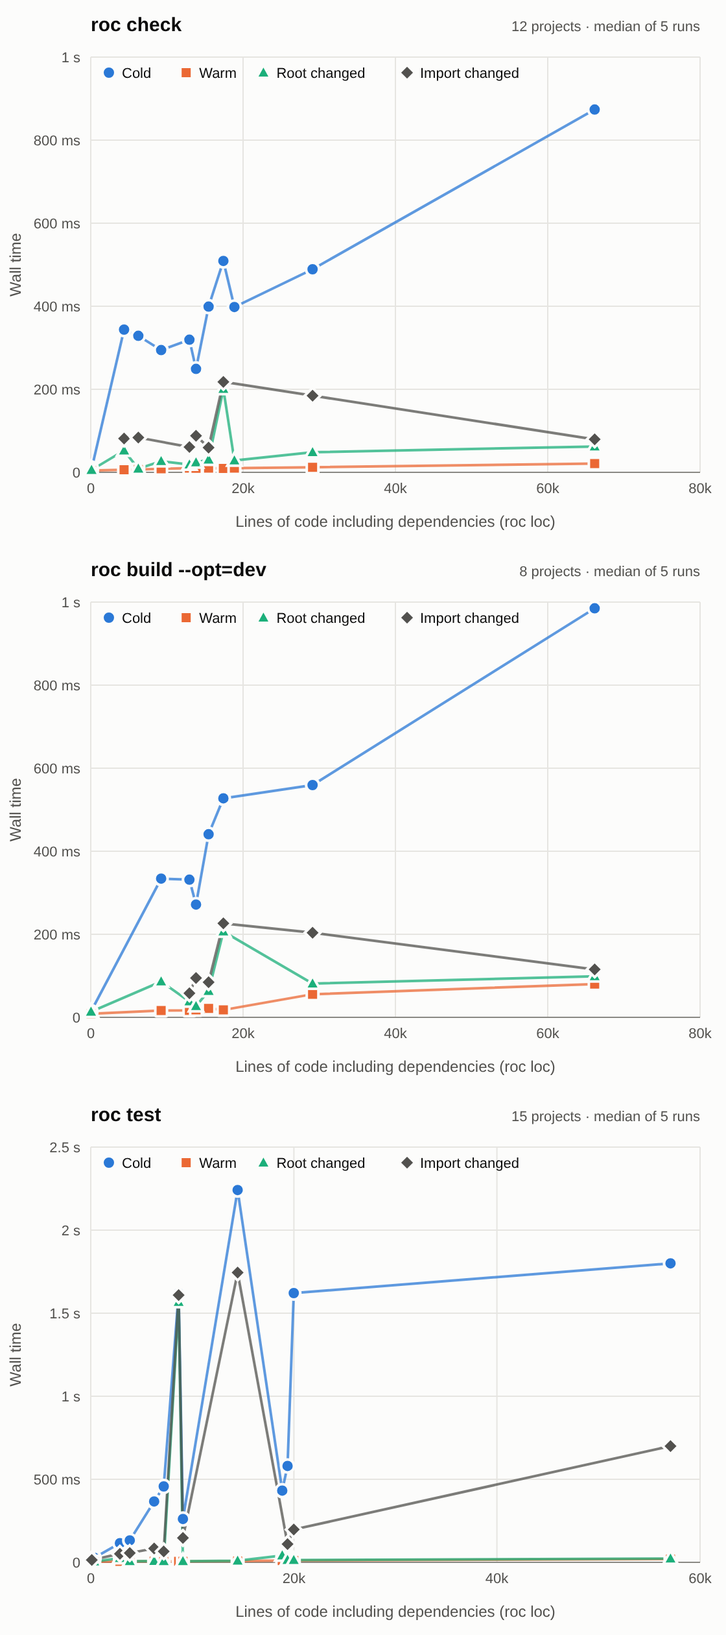
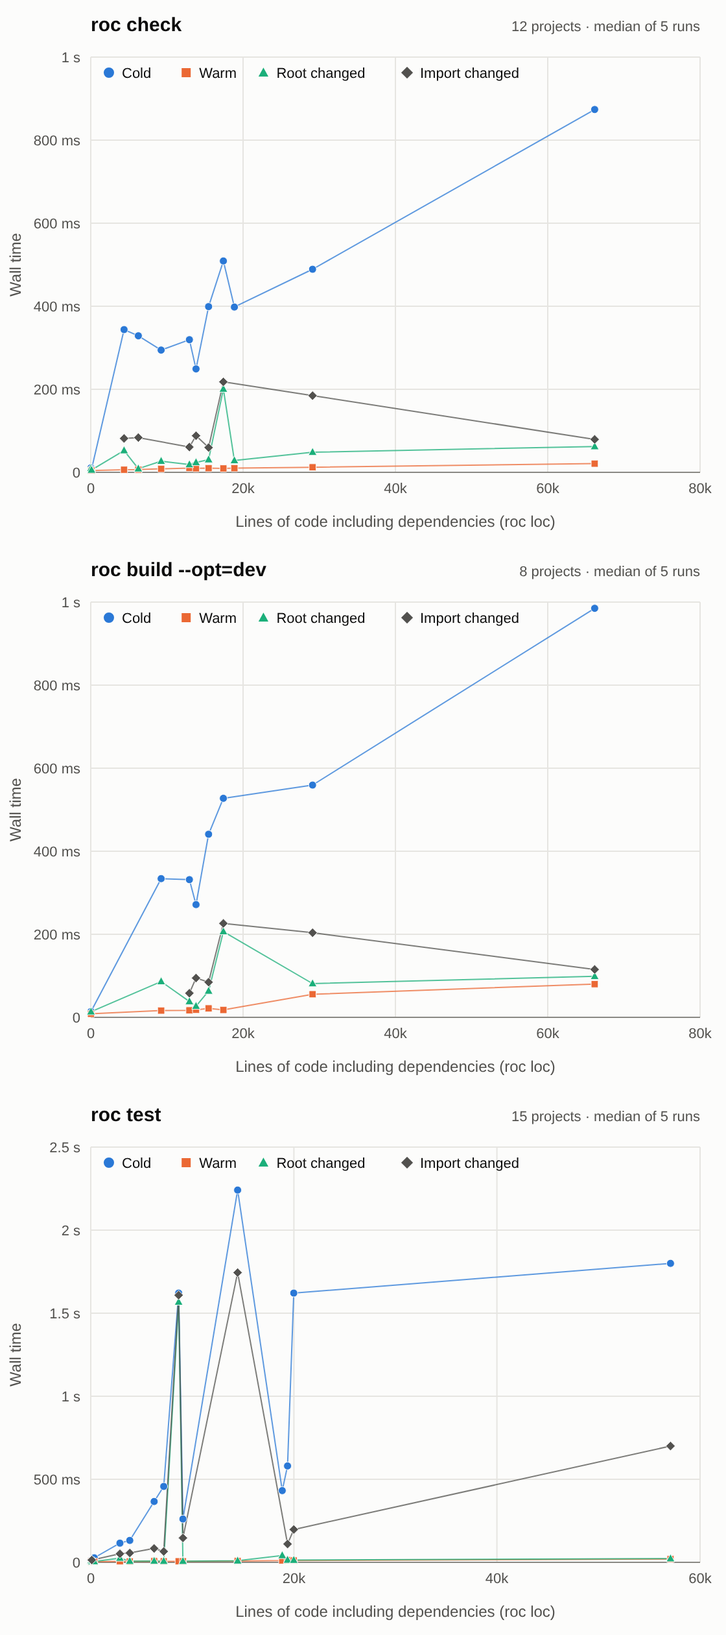
Draw the linear-scale charts with smaller markers and thinner lines

diff --git a/perf-measurements/charts-linear.html b/perf-measurements/charts-linear.html
@@ -28,57 +28,57 @@
 <line x1="70" x2="540" y1="364" y2="364" stroke="#8a8984" stroke-width="1"/>
 <text x="305.0" y="406" font-size="12" fill="#52514e" text-anchor="middle">Lines of code including dependencies (roc loc)</text>
 <text transform="translate(16 204.0) rotate(-90)" font-size="12" fill="#52514e" text-anchor="middle">Wall time</text>
-<polyline points="70.2,360.5 70.6,361.6 95.7,254.0 106.7,258.8 124.3,269.8 146.1,261.8 151.2,284.3 160.9,236.3 172.3,201.1 180.8,236.6 241.1,207.5 458.7,84.4" fill="none" stroke="#2a78d6" stroke-width="2" stroke-linejoin="round" opacity="0.75"/>
-<polyline points="70.2,362.6 70.6,362.6 95.7,362.0 106.7,361.9 124.3,361.3 146.1,360.7 151.2,360.9 160.9,360.8 172.3,361.0 180.8,360.8 241.1,360.1 458.7,357.3" fill="none" stroke="#eb6834" stroke-width="2" stroke-linejoin="round" opacity="0.75"/>
-<polyline points="70.2,360.9 70.6,362.2 95.7,347.2 106.7,361.2 124.3,355.4 146.1,358.0 151.2,356.4 160.9,354.2 172.3,299.8 180.8,354.9 241.1,348.5 458.7,344.1" fill="none" stroke="#1baf7a" stroke-width="2" stroke-linejoin="round" opacity="0.75"/>
-<polyline points="95.7,337.9 106.7,337.2 146.1,344.5 151.2,335.8 160.9,344.9 172.3,294.3 241.1,304.9 458.7,338.6" fill="none" stroke="#52514e" stroke-width="2" stroke-linejoin="round" opacity="0.75"/>
-<circle cx="70.2" cy="360.5" r="5" fill="#2a78d6" stroke="#fcfcfb" stroke-width="2"/>
-<circle cx="70.6" cy="361.6" r="5" fill="#2a78d6" stroke="#fcfcfb" stroke-width="2"/>
-<circle cx="95.7" cy="254.0" r="5" fill="#2a78d6" stroke="#fcfcfb" stroke-width="2"/>
-<circle cx="106.7" cy="258.8" r="5" fill="#2a78d6" stroke="#fcfcfb" stroke-width="2"/>
-<circle cx="124.3" cy="269.8" r="5" fill="#2a78d6" stroke="#fcfcfb" stroke-width="2"/>
-<circle cx="146.1" cy="261.8" r="5" fill="#2a78d6" stroke="#fcfcfb" stroke-width="2"/>
-<circle cx="151.2" cy="284.3" r="5" fill="#2a78d6" stroke="#fcfcfb" stroke-width="2"/>
-<circle cx="160.9" cy="236.3" r="5" fill="#2a78d6" stroke="#fcfcfb" stroke-width="2"/>
-<circle cx="172.3" cy="201.1" r="5" fill="#2a78d6" stroke="#fcfcfb" stroke-width="2"/>
-<circle cx="180.8" cy="236.6" r="5" fill="#2a78d6" stroke="#fcfcfb" stroke-width="2"/>
-<circle cx="241.1" cy="207.5" r="5" fill="#2a78d6" stroke="#fcfcfb" stroke-width="2"/>
-<circle cx="458.7" cy="84.4" r="5" fill="#2a78d6" stroke="#fcfcfb" stroke-width="2"/>
-<rect x="65.7" y="358.1" width="9" height="9" rx="1" fill="#eb6834" stroke="#fcfcfb" stroke-width="2"/>
-<rect x="66.1" y="358.1" width="9" height="9" rx="1" fill="#eb6834" stroke="#fcfcfb" stroke-width="2"/>
-<rect x="91.2" y="357.5" width="9" height="9" rx="1" fill="#eb6834" stroke="#fcfcfb" stroke-width="2"/>
-<rect x="102.2" y="357.4" width="9" height="9" rx="1" fill="#eb6834" stroke="#fcfcfb" stroke-width="2"/>
-<rect x="119.8" y="356.8" width="9" height="9" rx="1" fill="#eb6834" stroke="#fcfcfb" stroke-width="2"/>
-<rect x="141.6" y="356.2" width="9" height="9" rx="1" fill="#eb6834" stroke="#fcfcfb" stroke-width="2"/>
-<rect x="146.7" y="356.4" width="9" height="9" rx="1" fill="#eb6834" stroke="#fcfcfb" stroke-width="2"/>
-<rect x="156.4" y="356.3" width="9" height="9" rx="1" fill="#eb6834" stroke="#fcfcfb" stroke-width="2"/>
-<rect x="167.8" y="356.5" width="9" height="9" rx="1" fill="#eb6834" stroke="#fcfcfb" stroke-width="2"/>
-<rect x="176.3" y="356.3" width="9" height="9" rx="1" fill="#eb6834" stroke="#fcfcfb" stroke-width="2"/>
-<rect x="236.6" y="355.6" width="9" height="9" rx="1" fill="#eb6834" stroke="#fcfcfb" stroke-width="2"/>
-<rect x="454.2" y="352.8" width="9" height="9" rx="1" fill="#eb6834" stroke="#fcfcfb" stroke-width="2"/>
-<polygon points="70.2,354.9 75.7,364.9 64.7,364.9" fill="#1baf7a" stroke="#fcfcfb" stroke-width="2"/>
-<polygon points="70.6,356.2 76.1,366.2 65.1,366.2" fill="#1baf7a" stroke="#fcfcfb" stroke-width="2"/>
-<polygon points="95.7,341.2 101.2,351.2 90.2,351.2" fill="#1baf7a" stroke="#fcfcfb" stroke-width="2"/>
-<polygon points="106.7,355.2 112.2,365.2 101.2,365.2" fill="#1baf7a" stroke="#fcfcfb" stroke-width="2"/>
-<polygon points="124.3,349.4 129.8,359.4 118.8,359.4" fill="#1baf7a" stroke="#fcfcfb" stroke-width="2"/>
-<polygon points="146.1,352.0 151.6,362.0 140.6,362.0" fill="#1baf7a" stroke="#fcfcfb" stroke-width="2"/>
-<polygon points="151.2,350.4 156.7,360.4 145.7,360.4" fill="#1baf7a" stroke="#fcfcfb" stroke-width="2"/>
-<polygon points="160.9,348.2 166.4,358.2 155.4,358.2" fill="#1baf7a" stroke="#fcfcfb" stroke-width="2"/>
-<polygon points="172.3,293.8 177.8,303.8 166.8,303.8" fill="#1baf7a" stroke="#fcfcfb" stroke-width="2"/>
-<polygon points="180.8,348.9 186.3,358.9 175.3,358.9" fill="#1baf7a" stroke="#fcfcfb" stroke-width="2"/>
-<polygon points="241.1,342.5 246.6,352.5 235.6,352.5" fill="#1baf7a" stroke="#fcfcfb" stroke-width="2"/>
-<polygon points="458.7,338.1 464.2,348.1 453.2,348.1" fill="#1baf7a" stroke="#fcfcfb" stroke-width="2"/>
-<polygon points="95.7,331.9 101.7,337.9 95.7,343.9 89.7,337.9" fill="#52514e" stroke="#fcfcfb" stroke-width="2"/>
-<polygon points="106.7,331.2 112.7,337.2 106.7,343.2 100.7,337.2" fill="#52514e" stroke="#fcfcfb" stroke-width="2"/>
-<polygon points="146.1,338.5 152.1,344.5 146.1,350.5 140.1,344.5" fill="#52514e" stroke="#fcfcfb" stroke-width="2"/>
-<polygon points="151.2,329.8 157.2,335.8 151.2,341.8 145.2,335.8" fill="#52514e" stroke="#fcfcfb" stroke-width="2"/>
-<polygon points="160.9,338.9 166.9,344.9 160.9,350.9 154.9,344.9" fill="#52514e" stroke="#fcfcfb" stroke-width="2"/>
-<polygon points="172.3,288.3 178.3,294.3 172.3,300.3 166.3,294.3" fill="#52514e" stroke="#fcfcfb" stroke-width="2"/>
-<polygon points="241.1,298.9 247.1,304.9 241.1,310.9 235.1,304.9" fill="#52514e" stroke="#fcfcfb" stroke-width="2"/>
-<polygon points="458.7,332.6 464.7,338.6 458.7,344.6 452.7,338.6" fill="#52514e" stroke="#fcfcfb" stroke-width="2"/>
-<circle cx="84.0" cy="56.0" r="5" fill="#2a78d6" stroke="#fcfcfb" stroke-width="2"/>
+<polyline points="70.2,360.5 70.6,361.6 95.7,254.0 106.7,258.8 124.3,269.8 146.1,261.8 151.2,284.3 160.9,236.3 172.3,201.1 180.8,236.6 241.1,207.5 458.7,84.4" fill="none" stroke="#2a78d6" stroke-width="1" stroke-linejoin="round" opacity="0.75"/>
+<polyline points="70.2,362.6 70.6,362.6 95.7,362.0 106.7,361.9 124.3,361.3 146.1,360.7 151.2,360.9 160.9,360.8 172.3,361.0 180.8,360.8 241.1,360.1 458.7,357.3" fill="none" stroke="#eb6834" stroke-width="1" stroke-linejoin="round" opacity="0.75"/>
+<polyline points="70.2,360.9 70.6,362.2 95.7,347.2 106.7,361.2 124.3,355.4 146.1,358.0 151.2,356.4 160.9,354.2 172.3,299.8 180.8,354.9 241.1,348.5 458.7,344.1" fill="none" stroke="#1baf7a" stroke-width="1" stroke-linejoin="round" opacity="0.75"/>
+<polyline points="95.7,337.9 106.7,337.2 146.1,344.5 151.2,335.8 160.9,344.9 172.3,294.3 241.1,304.9 458.7,338.6" fill="none" stroke="#52514e" stroke-width="1" stroke-linejoin="round" opacity="0.75"/>
+<circle cx="70.2" cy="360.5" r="3.00" fill="#2a78d6" stroke="#fcfcfb" stroke-width="0.5"/>
+<circle cx="70.6" cy="361.6" r="3.00" fill="#2a78d6" stroke="#fcfcfb" stroke-width="0.5"/>
+<circle cx="95.7" cy="254.0" r="3.00" fill="#2a78d6" stroke="#fcfcfb" stroke-width="0.5"/>
+<circle cx="106.7" cy="258.8" r="3.00" fill="#2a78d6" stroke="#fcfcfb" stroke-width="0.5"/>
+<circle cx="124.3" cy="269.8" r="3.00" fill="#2a78d6" stroke="#fcfcfb" stroke-width="0.5"/>
+<circle cx="146.1" cy="261.8" r="3.00" fill="#2a78d6" stroke="#fcfcfb" stroke-width="0.5"/>
+<circle cx="151.2" cy="284.3" r="3.00" fill="#2a78d6" stroke="#fcfcfb" stroke-width="0.5"/>
+<circle cx="160.9" cy="236.3" r="3.00" fill="#2a78d6" stroke="#fcfcfb" stroke-width="0.5"/>
+<circle cx="172.3" cy="201.1" r="3.00" fill="#2a78d6" stroke="#fcfcfb" stroke-width="0.5"/>
+<circle cx="180.8" cy="236.6" r="3.00" fill="#2a78d6" stroke="#fcfcfb" stroke-width="0.5"/>
+<circle cx="241.1" cy="207.5" r="3.00" fill="#2a78d6" stroke="#fcfcfb" stroke-width="0.5"/>
+<circle cx="458.7" cy="84.4" r="3.00" fill="#2a78d6" stroke="#fcfcfb" stroke-width="0.5"/>
+<rect x="67.5" y="359.9" width="5.40" height="5.40" rx="0.60" fill="#eb6834" stroke="#fcfcfb" stroke-width="0.5"/>
+<rect x="67.9" y="359.9" width="5.40" height="5.40" rx="0.60" fill="#eb6834" stroke="#fcfcfb" stroke-width="0.5"/>
+<rect x="93.0" y="359.3" width="5.40" height="5.40" rx="0.60" fill="#eb6834" stroke="#fcfcfb" stroke-width="0.5"/>
+<rect x="104.0" y="359.2" width="5.40" height="5.40" rx="0.60" fill="#eb6834" stroke="#fcfcfb" stroke-width="0.5"/>
+<rect x="121.6" y="358.6" width="5.40" height="5.40" rx="0.60" fill="#eb6834" stroke="#fcfcfb" stroke-width="0.5"/>
+<rect x="143.4" y="358.0" width="5.40" height="5.40" rx="0.60" fill="#eb6834" stroke="#fcfcfb" stroke-width="0.5"/>
+<rect x="148.5" y="358.2" width="5.40" height="5.40" rx="0.60" fill="#eb6834" stroke="#fcfcfb" stroke-width="0.5"/>
+<rect x="158.2" y="358.1" width="5.40" height="5.40" rx="0.60" fill="#eb6834" stroke="#fcfcfb" stroke-width="0.5"/>
+<rect x="169.6" y="358.3" width="5.40" height="5.40" rx="0.60" fill="#eb6834" stroke="#fcfcfb" stroke-width="0.5"/>
+<rect x="178.1" y="358.1" width="5.40" height="5.40" rx="0.60" fill="#eb6834" stroke="#fcfcfb" stroke-width="0.5"/>
+<rect x="238.4" y="357.4" width="5.40" height="5.40" rx="0.60" fill="#eb6834" stroke="#fcfcfb" stroke-width="0.5"/>
+<rect x="456.0" y="354.6" width="5.40" height="5.40" rx="0.60" fill="#eb6834" stroke="#fcfcfb" stroke-width="0.5"/>
+<polygon points="70.2,357.3 73.5,363.3 66.9,363.3" fill="#1baf7a" stroke="#fcfcfb" stroke-width="0.5"/>
+<polygon points="70.6,358.6 73.9,364.6 67.3,364.6" fill="#1baf7a" stroke="#fcfcfb" stroke-width="0.5"/>
+<polygon points="95.7,343.6 99.0,349.6 92.4,349.6" fill="#1baf7a" stroke="#fcfcfb" stroke-width="0.5"/>
+<polygon points="106.7,357.6 110.0,363.6 103.4,363.6" fill="#1baf7a" stroke="#fcfcfb" stroke-width="0.5"/>
+<polygon points="124.3,351.8 127.6,357.8 121.0,357.8" fill="#1baf7a" stroke="#fcfcfb" stroke-width="0.5"/>
+<polygon points="146.1,354.4 149.4,360.4 142.8,360.4" fill="#1baf7a" stroke="#fcfcfb" stroke-width="0.5"/>
+<polygon points="151.2,352.8 154.5,358.8 147.9,358.8" fill="#1baf7a" stroke="#fcfcfb" stroke-width="0.5"/>
+<polygon points="160.9,350.6 164.2,356.6 157.6,356.6" fill="#1baf7a" stroke="#fcfcfb" stroke-width="0.5"/>
+<polygon points="172.3,296.2 175.6,302.2 169.0,302.2" fill="#1baf7a" stroke="#fcfcfb" stroke-width="0.5"/>
+<polygon points="180.8,351.3 184.1,357.3 177.5,357.3" fill="#1baf7a" stroke="#fcfcfb" stroke-width="0.5"/>
+<polygon points="241.1,344.9 244.4,350.9 237.8,350.9" fill="#1baf7a" stroke="#fcfcfb" stroke-width="0.5"/>
+<polygon points="458.7,340.5 462.0,346.5 455.4,346.5" fill="#1baf7a" stroke="#fcfcfb" stroke-width="0.5"/>
+<polygon points="95.7,334.3 99.3,337.9 95.7,341.5 92.1,337.9" fill="#52514e" stroke="#fcfcfb" stroke-width="0.5"/>
+<polygon points="106.7,333.6 110.3,337.2 106.7,340.8 103.1,337.2" fill="#52514e" stroke="#fcfcfb" stroke-width="0.5"/>
+<polygon points="146.1,340.9 149.7,344.5 146.1,348.1 142.5,344.5" fill="#52514e" stroke="#fcfcfb" stroke-width="0.5"/>
+<polygon points="151.2,332.2 154.8,335.8 151.2,339.4 147.6,335.8" fill="#52514e" stroke="#fcfcfb" stroke-width="0.5"/>
+<polygon points="160.9,341.3 164.5,344.9 160.9,348.5 157.3,344.9" fill="#52514e" stroke="#fcfcfb" stroke-width="0.5"/>
+<polygon points="172.3,290.7 175.9,294.3 172.3,297.9 168.7,294.3" fill="#52514e" stroke="#fcfcfb" stroke-width="0.5"/>
+<polygon points="241.1,301.3 244.7,304.9 241.1,308.5 237.5,304.9" fill="#52514e" stroke="#fcfcfb" stroke-width="0.5"/>
+<polygon points="458.7,335.0 462.3,338.6 458.7,342.2 455.1,338.6" fill="#52514e" stroke="#fcfcfb" stroke-width="0.5"/>
+<circle cx="84.0" cy="56.0" r="5.00" fill="#2a78d6" stroke="#fcfcfb" stroke-width="2"/>
 <text x="94" y="60" font-size="11" fill="#0b0b0b">Cold</text>
-<rect x="139.1" y="51.5" width="9" height="9" rx="1" fill="#eb6834" stroke="#fcfcfb" stroke-width="2"/>
+<rect x="139.1" y="51.5" width="9.00" height="9.00" rx="1.00" fill="#eb6834" stroke="#fcfcfb" stroke-width="2"/>
 <text x="153.6" y="60" font-size="11" fill="#0b0b0b">Warm</text>
 <polygon points="203.2,50.0 208.7,60.0 197.7,60.0" fill="#1baf7a" stroke="#fcfcfb" stroke-width="2"/>
 <text x="213.2" y="60" font-size="11" fill="#0b0b0b">Root changed</text>
@@ -114,43 +114,43 @@
 <line x1="70" x2="540" y1="364" y2="364" stroke="#8a8984" stroke-width="1"/>
 <text x="305.0" y="406" font-size="12" fill="#52514e" text-anchor="middle">Lines of code including dependencies (roc loc)</text>
 <text transform="translate(16 204.0) rotate(-90)" font-size="12" fill="#52514e" text-anchor="middle">Wall time</text>
-<polyline points="70.2,359.5 124.3,257.1 146.1,257.9 151.2,277.1 160.9,222.9 172.3,195.2 241.1,185.0 458.7,48.8" fill="none" stroke="#2a78d6" stroke-width="2" stroke-linejoin="round" opacity="0.75"/>
-<polyline points="70.2,361.3 124.3,358.8 146.1,358.6 151.2,358.2 160.9,357.1 172.3,358.3 241.1,346.2 458.7,338.4" fill="none" stroke="#eb6834" stroke-width="2" stroke-linejoin="round" opacity="0.75"/>
-<polyline points="70.2,359.7 124.3,336.4 146.1,351.8 151.2,355.4 160.9,343.7 172.3,297.9 241.1,338.0 458.7,332.4" fill="none" stroke="#1baf7a" stroke-width="2" stroke-linejoin="round" opacity="0.75"/>
-<polyline points="146.1,345.4 151.2,333.7 160.9,336.9 172.3,291.6 241.1,298.8 458.7,327.1" fill="none" stroke="#52514e" stroke-width="2" stroke-linejoin="round" opacity="0.75"/>
-<circle cx="70.2" cy="359.5" r="5" fill="#2a78d6" stroke="#fcfcfb" stroke-width="2"/>
-<circle cx="124.3" cy="257.1" r="5" fill="#2a78d6" stroke="#fcfcfb" stroke-width="2"/>
-<circle cx="146.1" cy="257.9" r="5" fill="#2a78d6" stroke="#fcfcfb" stroke-width="2"/>
-<circle cx="151.2" cy="277.1" r="5" fill="#2a78d6" stroke="#fcfcfb" stroke-width="2"/>
-<circle cx="160.9" cy="222.9" r="5" fill="#2a78d6" stroke="#fcfcfb" stroke-width="2"/>
-<circle cx="172.3" cy="195.2" r="5" fill="#2a78d6" stroke="#fcfcfb" stroke-width="2"/>
-<circle cx="241.1" cy="185.0" r="5" fill="#2a78d6" stroke="#fcfcfb" stroke-width="2"/>
-<circle cx="458.7" cy="48.8" r="5" fill="#2a78d6" stroke="#fcfcfb" stroke-width="2"/>
-<rect x="65.7" y="356.8" width="9" height="9" rx="1" fill="#eb6834" stroke="#fcfcfb" stroke-width="2"/>
-<rect x="119.8" y="354.3" width="9" height="9" rx="1" fill="#eb6834" stroke="#fcfcfb" stroke-width="2"/>
-<rect x="141.6" y="354.1" width="9" height="9" rx="1" fill="#eb6834" stroke="#fcfcfb" stroke-width="2"/>
-<rect x="146.7" y="353.7" width="9" height="9" rx="1" fill="#eb6834" stroke="#fcfcfb" stroke-width="2"/>
-<rect x="156.4" y="352.6" width="9" height="9" rx="1" fill="#eb6834" stroke="#fcfcfb" stroke-width="2"/>
-<rect x="167.8" y="353.8" width="9" height="9" rx="1" fill="#eb6834" stroke="#fcfcfb" stroke-width="2"/>
-<rect x="236.6" y="341.7" width="9" height="9" rx="1" fill="#eb6834" stroke="#fcfcfb" stroke-width="2"/>
-<rect x="454.2" y="333.9" width="9" height="9" rx="1" fill="#eb6834" stroke="#fcfcfb" stroke-width="2"/>
-<polygon points="70.2,353.7 75.7,363.7 64.7,363.7" fill="#1baf7a" stroke="#fcfcfb" stroke-width="2"/>
-<polygon points="124.3,330.4 129.8,340.4 118.8,340.4" fill="#1baf7a" stroke="#fcfcfb" stroke-width="2"/>
-<polygon points="146.1,345.8 151.6,355.8 140.6,355.8" fill="#1baf7a" stroke="#fcfcfb" stroke-width="2"/>
-<polygon points="151.2,349.4 156.7,359.4 145.7,359.4" fill="#1baf7a" stroke="#fcfcfb" stroke-width="2"/>
-<polygon points="160.9,337.7 166.4,347.7 155.4,347.7" fill="#1baf7a" stroke="#fcfcfb" stroke-width="2"/>
-<polygon points="172.3,291.9 177.8,301.9 166.8,301.9" fill="#1baf7a" stroke="#fcfcfb" stroke-width="2"/>
-<polygon points="241.1,332.0 246.6,342.0 235.6,342.0" fill="#1baf7a" stroke="#fcfcfb" stroke-width="2"/>
-<polygon points="458.7,326.4 464.2,336.4 453.2,336.4" fill="#1baf7a" stroke="#fcfcfb" stroke-width="2"/>
-<polygon points="146.1,339.4 152.1,345.4 146.1,351.4 140.1,345.4" fill="#52514e" stroke="#fcfcfb" stroke-width="2"/>
-<polygon points="151.2,327.7 157.2,333.7 151.2,339.7 145.2,333.7" fill="#52514e" stroke="#fcfcfb" stroke-width="2"/>
-<polygon points="160.9,330.9 166.9,336.9 160.9,342.9 154.9,336.9" fill="#52514e" stroke="#fcfcfb" stroke-width="2"/>
-<polygon points="172.3,285.6 178.3,291.6 172.3,297.6 166.3,291.6" fill="#52514e" stroke="#fcfcfb" stroke-width="2"/>
-<polygon points="241.1,292.8 247.1,298.8 241.1,304.8 235.1,298.8" fill="#52514e" stroke="#fcfcfb" stroke-width="2"/>
-<polygon points="458.7,321.1 464.7,327.1 458.7,333.1 452.7,327.1" fill="#52514e" stroke="#fcfcfb" stroke-width="2"/>
-<circle cx="84.0" cy="56.0" r="5" fill="#2a78d6" stroke="#fcfcfb" stroke-width="2"/>
+<polyline points="70.2,359.5 124.3,257.1 146.1,257.9 151.2,277.1 160.9,222.9 172.3,195.2 241.1,185.0 458.7,48.8" fill="none" stroke="#2a78d6" stroke-width="1" stroke-linejoin="round" opacity="0.75"/>
+<polyline points="70.2,361.3 124.3,358.8 146.1,358.6 151.2,358.2 160.9,357.1 172.3,358.3 241.1,346.2 458.7,338.4" fill="none" stroke="#eb6834" stroke-width="1" stroke-linejoin="round" opacity="0.75"/>
+<polyline points="70.2,359.7 124.3,336.4 146.1,351.8 151.2,355.4 160.9,343.7 172.3,297.9 241.1,338.0 458.7,332.4" fill="none" stroke="#1baf7a" stroke-width="1" stroke-linejoin="round" opacity="0.75"/>
+<polyline points="146.1,345.4 151.2,333.7 160.9,336.9 172.3,291.6 241.1,298.8 458.7,327.1" fill="none" stroke="#52514e" stroke-width="1" stroke-linejoin="round" opacity="0.75"/>
+<circle cx="70.2" cy="359.5" r="3.00" fill="#2a78d6" stroke="#fcfcfb" stroke-width="0.5"/>
+<circle cx="124.3" cy="257.1" r="3.00" fill="#2a78d6" stroke="#fcfcfb" stroke-width="0.5"/>
+<circle cx="146.1" cy="257.9" r="3.00" fill="#2a78d6" stroke="#fcfcfb" stroke-width="0.5"/>
+<circle cx="151.2" cy="277.1" r="3.00" fill="#2a78d6" stroke="#fcfcfb" stroke-width="0.5"/>
+<circle cx="160.9" cy="222.9" r="3.00" fill="#2a78d6" stroke="#fcfcfb" stroke-width="0.5"/>
+<circle cx="172.3" cy="195.2" r="3.00" fill="#2a78d6" stroke="#fcfcfb" stroke-width="0.5"/>
+<circle cx="241.1" cy="185.0" r="3.00" fill="#2a78d6" stroke="#fcfcfb" stroke-width="0.5"/>
+<circle cx="458.7" cy="48.8" r="3.00" fill="#2a78d6" stroke="#fcfcfb" stroke-width="0.5"/>
+<rect x="67.5" y="358.6" width="5.40" height="5.40" rx="0.60" fill="#eb6834" stroke="#fcfcfb" stroke-width="0.5"/>
+<rect x="121.6" y="356.1" width="5.40" height="5.40" rx="0.60" fill="#eb6834" stroke="#fcfcfb" stroke-width="0.5"/>
+<rect x="143.4" y="355.9" width="5.40" height="5.40" rx="0.60" fill="#eb6834" stroke="#fcfcfb" stroke-width="0.5"/>
+<rect x="148.5" y="355.5" width="5.40" height="5.40" rx="0.60" fill="#eb6834" stroke="#fcfcfb" stroke-width="0.5"/>
+<rect x="158.2" y="354.4" width="5.40" height="5.40" rx="0.60" fill="#eb6834" stroke="#fcfcfb" stroke-width="0.5"/>
+<rect x="169.6" y="355.6" width="5.40" height="5.40" rx="0.60" fill="#eb6834" stroke="#fcfcfb" stroke-width="0.5"/>
+<rect x="238.4" y="343.5" width="5.40" height="5.40" rx="0.60" fill="#eb6834" stroke="#fcfcfb" stroke-width="0.5"/>
+<rect x="456.0" y="335.7" width="5.40" height="5.40" rx="0.60" fill="#eb6834" stroke="#fcfcfb" stroke-width="0.5"/>
+<polygon points="70.2,356.1 73.5,362.1 66.9,362.1" fill="#1baf7a" stroke="#fcfcfb" stroke-width="0.5"/>
+<polygon points="124.3,332.8 127.6,338.8 121.0,338.8" fill="#1baf7a" stroke="#fcfcfb" stroke-width="0.5"/>
+<polygon points="146.1,348.2 149.4,354.2 142.8,354.2" fill="#1baf7a" stroke="#fcfcfb" stroke-width="0.5"/>
+<polygon points="151.2,351.8 154.5,357.8 147.9,357.8" fill="#1baf7a" stroke="#fcfcfb" stroke-width="0.5"/>
+<polygon points="160.9,340.1 164.2,346.1 157.6,346.1" fill="#1baf7a" stroke="#fcfcfb" stroke-width="0.5"/>
+<polygon points="172.3,294.3 175.6,300.3 169.0,300.3" fill="#1baf7a" stroke="#fcfcfb" stroke-width="0.5"/>
+<polygon points="241.1,334.4 244.4,340.4 237.8,340.4" fill="#1baf7a" stroke="#fcfcfb" stroke-width="0.5"/>
+<polygon points="458.7,328.8 462.0,334.8 455.4,334.8" fill="#1baf7a" stroke="#fcfcfb" stroke-width="0.5"/>
+<polygon points="146.1,341.8 149.7,345.4 146.1,349.0 142.5,345.4" fill="#52514e" stroke="#fcfcfb" stroke-width="0.5"/>
+<polygon points="151.2,330.1 154.8,333.7 151.2,337.3 147.6,333.7" fill="#52514e" stroke="#fcfcfb" stroke-width="0.5"/>
+<polygon points="160.9,333.3 164.5,336.9 160.9,340.5 157.3,336.9" fill="#52514e" stroke="#fcfcfb" stroke-width="0.5"/>
+<polygon points="172.3,288.0 175.9,291.6 172.3,295.2 168.7,291.6" fill="#52514e" stroke="#fcfcfb" stroke-width="0.5"/>
+<polygon points="241.1,295.2 244.7,298.8 241.1,302.4 237.5,298.8" fill="#52514e" stroke="#fcfcfb" stroke-width="0.5"/>
+<polygon points="458.7,323.5 462.3,327.1 458.7,330.7 455.1,327.1" fill="#52514e" stroke="#fcfcfb" stroke-width="0.5"/>
+<circle cx="84.0" cy="56.0" r="5.00" fill="#2a78d6" stroke="#fcfcfb" stroke-width="2"/>
 <text x="94" y="60" font-size="11" fill="#0b0b0b">Cold</text>
-<rect x="139.1" y="51.5" width="9" height="9" rx="1" fill="#eb6834" stroke="#fcfcfb" stroke-width="2"/>
+<rect x="139.1" y="51.5" width="9.00" height="9.00" rx="1.00" fill="#eb6834" stroke="#fcfcfb" stroke-width="2"/>
 <text x="153.6" y="60" font-size="11" fill="#0b0b0b">Warm</text>
 <polygon points="203.2,50.0 208.7,60.0 197.7,60.0" fill="#1baf7a" stroke="#fcfcfb" stroke-width="2"/>
 <text x="213.2" y="60" font-size="11" fill="#0b0b0b">Root changed</text>
@@ -184,69 +184,69 @@
 <line x1="70" x2="540" y1="364" y2="364" stroke="#8a8984" stroke-width="1"/>
 <text x="305.0" y="406" font-size="12" fill="#52514e" text-anchor="middle">Lines of code including dependencies (roc loc)</text>
 <text transform="translate(16 204.0) rotate(-90)" font-size="12" fill="#52514e" text-anchor="middle">Wall time</text>
-<polyline points="70.2,362.8 70.8,362.2 71.1,362.1 72.7,360.5 92.5,349.2 100.1,347.1 118.9,317.1 126.3,305.5 137.8,156.5 141.1,330.6 183.3,77.1 217.7,308.7 221.8,289.7 226.6,156.5 517.2,133.6" fill="none" stroke="#2a78d6" stroke-width="2" stroke-linejoin="round" opacity="0.75"/>
-<polyline points="70.2,363.5 70.8,363.5 71.1,363.4 72.7,363.5 92.5,363.2 100.1,363.3 118.9,363.1 126.3,363.2 137.8,363.2 141.1,363.2 183.3,363.0 217.7,362.6 221.8,362.3 226.6,362.6 517.2,361.5" fill="none" stroke="#eb6834" stroke-width="2" stroke-linejoin="round" opacity="0.75"/>
-<polyline points="70.2,362.7 70.8,363.4 71.1,362.4 72.7,363.4 92.5,360.7 100.1,363.1 118.9,363.0 126.3,363.1 137.8,163.4 141.1,363.1 183.3,362.8 217.7,358.7 221.8,362.2 226.6,362.3 517.2,361.1" fill="none" stroke="#1baf7a" stroke-width="2" stroke-linejoin="round" opacity="0.75"/>
-<polyline points="70.8,362.2 92.5,357.4 100.1,356.8 118.9,353.3 126.3,355.6 137.8,158.1 141.1,345.2 183.3,140.7 221.8,349.9 226.6,338.7 517.2,274.4" fill="none" stroke="#52514e" stroke-width="2" stroke-linejoin="round" opacity="0.75"/>
-<circle cx="70.2" cy="362.8" r="5" fill="#2a78d6" stroke="#fcfcfb" stroke-width="2"/>
-<circle cx="70.8" cy="362.2" r="5" fill="#2a78d6" stroke="#fcfcfb" stroke-width="2"/>
-<circle cx="71.1" cy="362.1" r="5" fill="#2a78d6" stroke="#fcfcfb" stroke-width="2"/>
-<circle cx="72.7" cy="360.5" r="5" fill="#2a78d6" stroke="#fcfcfb" stroke-width="2"/>
-<circle cx="92.5" cy="349.2" r="5" fill="#2a78d6" stroke="#fcfcfb" stroke-width="2"/>
-<circle cx="100.1" cy="347.1" r="5" fill="#2a78d6" stroke="#fcfcfb" stroke-width="2"/>
-<circle cx="118.9" cy="317.1" r="5" fill="#2a78d6" stroke="#fcfcfb" stroke-width="2"/>
-<circle cx="126.3" cy="305.5" r="5" fill="#2a78d6" stroke="#fcfcfb" stroke-width="2"/>
-<circle cx="137.8" cy="156.5" r="5" fill="#2a78d6" stroke="#fcfcfb" stroke-width="2"/>
-<circle cx="141.1" cy="330.6" r="5" fill="#2a78d6" stroke="#fcfcfb" stroke-width="2"/>
-<circle cx="183.3" cy="77.1" r="5" fill="#2a78d6" stroke="#fcfcfb" stroke-width="2"/>
-<circle cx="217.7" cy="308.7" r="5" fill="#2a78d6" stroke="#fcfcfb" stroke-width="2"/>
-<circle cx="221.8" cy="289.7" r="5" fill="#2a78d6" stroke="#fcfcfb" stroke-width="2"/>
-<circle cx="226.6" cy="156.5" r="5" fill="#2a78d6" stroke="#fcfcfb" stroke-width="2"/>
-<circle cx="517.2" cy="133.6" r="5" fill="#2a78d6" stroke="#fcfcfb" stroke-width="2"/>
-<rect x="65.7" y="359.0" width="9" height="9" rx="1" fill="#eb6834" stroke="#fcfcfb" stroke-width="2"/>
-<rect x="66.3" y="359.0" width="9" height="9" rx="1" fill="#eb6834" stroke="#fcfcfb" stroke-width="2"/>
-<rect x="66.6" y="358.9" width="9" height="9" rx="1" fill="#eb6834" stroke="#fcfcfb" stroke-width="2"/>
-<rect x="68.2" y="359.0" width="9" height="9" rx="1" fill="#eb6834" stroke="#fcfcfb" stroke-width="2"/>
-<rect x="88.0" y="358.7" width="9" height="9" rx="1" fill="#eb6834" stroke="#fcfcfb" stroke-width="2"/>
-<rect x="95.6" y="358.8" width="9" height="9" rx="1" fill="#eb6834" stroke="#fcfcfb" stroke-width="2"/>
-<rect x="114.4" y="358.6" width="9" height="9" rx="1" fill="#eb6834" stroke="#fcfcfb" stroke-width="2"/>
-<rect x="121.8" y="358.7" width="9" height="9" rx="1" fill="#eb6834" stroke="#fcfcfb" stroke-width="2"/>
-<rect x="133.3" y="358.7" width="9" height="9" rx="1" fill="#eb6834" stroke="#fcfcfb" stroke-width="2"/>
-<rect x="136.6" y="358.7" width="9" height="9" rx="1" fill="#eb6834" stroke="#fcfcfb" stroke-width="2"/>
-<rect x="178.8" y="358.5" width="9" height="9" rx="1" fill="#eb6834" stroke="#fcfcfb" stroke-width="2"/>
-<rect x="213.2" y="358.1" width="9" height="9" rx="1" fill="#eb6834" stroke="#fcfcfb" stroke-width="2"/>
-<rect x="217.3" y="357.8" width="9" height="9" rx="1" fill="#eb6834" stroke="#fcfcfb" stroke-width="2"/>
-<rect x="222.1" y="358.1" width="9" height="9" rx="1" fill="#eb6834" stroke="#fcfcfb" stroke-width="2"/>
-<rect x="512.7" y="357.0" width="9" height="9" rx="1" fill="#eb6834" stroke="#fcfcfb" stroke-width="2"/>
-<polygon points="70.2,356.7 75.7,366.7 64.7,366.7" fill="#1baf7a" stroke="#fcfcfb" stroke-width="2"/>
-<polygon points="70.8,357.4 76.3,367.4 65.3,367.4" fill="#1baf7a" stroke="#fcfcfb" stroke-width="2"/>
-<polygon points="71.1,356.4 76.6,366.4 65.6,366.4" fill="#1baf7a" stroke="#fcfcfb" stroke-width="2"/>
-<polygon points="72.7,357.4 78.2,367.4 67.2,367.4" fill="#1baf7a" stroke="#fcfcfb" stroke-width="2"/>
-<polygon points="92.5,354.7 98.0,364.7 87.0,364.7" fill="#1baf7a" stroke="#fcfcfb" stroke-width="2"/>
-<polygon points="100.1,357.1 105.6,367.1 94.6,367.1" fill="#1baf7a" stroke="#fcfcfb" stroke-width="2"/>
-<polygon points="118.9,357.0 124.4,367.0 113.4,367.0" fill="#1baf7a" stroke="#fcfcfb" stroke-width="2"/>
-<polygon points="126.3,357.1 131.8,367.1 120.8,367.1" fill="#1baf7a" stroke="#fcfcfb" stroke-width="2"/>
-<polygon points="137.8,157.4 143.3,167.4 132.3,167.4" fill="#1baf7a" stroke="#fcfcfb" stroke-width="2"/>
-<polygon points="141.1,357.1 146.6,367.1 135.6,367.1" fill="#1baf7a" stroke="#fcfcfb" stroke-width="2"/>
-<polygon points="183.3,356.8 188.8,366.8 177.8,366.8" fill="#1baf7a" stroke="#fcfcfb" stroke-width="2"/>
-<polygon points="217.7,352.7 223.2,362.7 212.2,362.7" fill="#1baf7a" stroke="#fcfcfb" stroke-width="2"/>
-<polygon points="221.8,356.2 227.3,366.2 216.3,366.2" fill="#1baf7a" stroke="#fcfcfb" stroke-width="2"/>
-<polygon points="226.6,356.3 232.1,366.3 221.1,366.3" fill="#1baf7a" stroke="#fcfcfb" stroke-width="2"/>
-<polygon points="517.2,355.1 522.7,365.1 511.7,365.1" fill="#1baf7a" stroke="#fcfcfb" stroke-width="2"/>
-<polygon points="70.8,356.2 76.8,362.2 70.8,368.2 64.8,362.2" fill="#52514e" stroke="#fcfcfb" stroke-width="2"/>
-<polygon points="92.5,351.4 98.5,357.4 92.5,363.4 86.5,357.4" fill="#52514e" stroke="#fcfcfb" stroke-width="2"/>
-<polygon points="100.1,350.8 106.1,356.8 100.1,362.8 94.1,356.8" fill="#52514e" stroke="#fcfcfb" stroke-width="2"/>
-<polygon points="118.9,347.3 124.9,353.3 118.9,359.3 112.9,353.3" fill="#52514e" stroke="#fcfcfb" stroke-width="2"/>
-<polygon points="126.3,349.6 132.3,355.6 126.3,361.6 120.3,355.6" fill="#52514e" stroke="#fcfcfb" stroke-width="2"/>
-<polygon points="137.8,152.1 143.8,158.1 137.8,164.1 131.8,158.1" fill="#52514e" stroke="#fcfcfb" stroke-width="2"/>
-<polygon points="141.1,339.2 147.1,345.2 141.1,351.2 135.1,345.2" fill="#52514e" stroke="#fcfcfb" stroke-width="2"/>
-<polygon points="183.3,134.7 189.3,140.7 183.3,146.7 177.3,140.7" fill="#52514e" stroke="#fcfcfb" stroke-width="2"/>
-<polygon points="221.8,343.9 227.8,349.9 221.8,355.9 215.8,349.9" fill="#52514e" stroke="#fcfcfb" stroke-width="2"/>
-<polygon points="226.6,332.7 232.6,338.7 226.6,344.7 220.6,338.7" fill="#52514e" stroke="#fcfcfb" stroke-width="2"/>
-<polygon points="517.2,268.4 523.2,274.4 517.2,280.4 511.2,274.4" fill="#52514e" stroke="#fcfcfb" stroke-width="2"/>
-<circle cx="84.0" cy="56.0" r="5" fill="#2a78d6" stroke="#fcfcfb" stroke-width="2"/>
+<polyline points="70.2,362.8 70.8,362.2 71.1,362.1 72.7,360.5 92.5,349.2 100.1,347.1 118.9,317.1 126.3,305.5 137.8,156.5 141.1,330.6 183.3,77.1 217.7,308.7 221.8,289.7 226.6,156.5 517.2,133.6" fill="none" stroke="#2a78d6" stroke-width="1" stroke-linejoin="round" opacity="0.75"/>
+<polyline points="70.2,363.5 70.8,363.5 71.1,363.4 72.7,363.5 92.5,363.2 100.1,363.3 118.9,363.1 126.3,363.2 137.8,363.2 141.1,363.2 183.3,363.0 217.7,362.6 221.8,362.3 226.6,362.6 517.2,361.5" fill="none" stroke="#eb6834" stroke-width="1" stroke-linejoin="round" opacity="0.75"/>
+<polyline points="70.2,362.7 70.8,363.4 71.1,362.4 72.7,363.4 92.5,360.7 100.1,363.1 118.9,363.0 126.3,363.1 137.8,163.4 141.1,363.1 183.3,362.8 217.7,358.7 221.8,362.2 226.6,362.3 517.2,361.1" fill="none" stroke="#1baf7a" stroke-width="1" stroke-linejoin="round" opacity="0.75"/>
+<polyline points="70.8,362.2 92.5,357.4 100.1,356.8 118.9,353.3 126.3,355.6 137.8,158.1 141.1,345.2 183.3,140.7 221.8,349.9 226.6,338.7 517.2,274.4" fill="none" stroke="#52514e" stroke-width="1" stroke-linejoin="round" opacity="0.75"/>
+<circle cx="70.2" cy="362.8" r="3.00" fill="#2a78d6" stroke="#fcfcfb" stroke-width="0.5"/>
+<circle cx="70.8" cy="362.2" r="3.00" fill="#2a78d6" stroke="#fcfcfb" stroke-width="0.5"/>
+<circle cx="71.1" cy="362.1" r="3.00" fill="#2a78d6" stroke="#fcfcfb" stroke-width="0.5"/>
+<circle cx="72.7" cy="360.5" r="3.00" fill="#2a78d6" stroke="#fcfcfb" stroke-width="0.5"/>
+<circle cx="92.5" cy="349.2" r="3.00" fill="#2a78d6" stroke="#fcfcfb" stroke-width="0.5"/>
+<circle cx="100.1" cy="347.1" r="3.00" fill="#2a78d6" stroke="#fcfcfb" stroke-width="0.5"/>
+<circle cx="118.9" cy="317.1" r="3.00" fill="#2a78d6" stroke="#fcfcfb" stroke-width="0.5"/>
+<circle cx="126.3" cy="305.5" r="3.00" fill="#2a78d6" stroke="#fcfcfb" stroke-width="0.5"/>
+<circle cx="137.8" cy="156.5" r="3.00" fill="#2a78d6" stroke="#fcfcfb" stroke-width="0.5"/>
+<circle cx="141.1" cy="330.6" r="3.00" fill="#2a78d6" stroke="#fcfcfb" stroke-width="0.5"/>
+<circle cx="183.3" cy="77.1" r="3.00" fill="#2a78d6" stroke="#fcfcfb" stroke-width="0.5"/>
+<circle cx="217.7" cy="308.7" r="3.00" fill="#2a78d6" stroke="#fcfcfb" stroke-width="0.5"/>
+<circle cx="221.8" cy="289.7" r="3.00" fill="#2a78d6" stroke="#fcfcfb" stroke-width="0.5"/>
+<circle cx="226.6" cy="156.5" r="3.00" fill="#2a78d6" stroke="#fcfcfb" stroke-width="0.5"/>
+<circle cx="517.2" cy="133.6" r="3.00" fill="#2a78d6" stroke="#fcfcfb" stroke-width="0.5"/>
+<rect x="67.5" y="360.8" width="5.40" height="5.40" rx="0.60" fill="#eb6834" stroke="#fcfcfb" stroke-width="0.5"/>
+<rect x="68.1" y="360.8" width="5.40" height="5.40" rx="0.60" fill="#eb6834" stroke="#fcfcfb" stroke-width="0.5"/>
+<rect x="68.4" y="360.7" width="5.40" height="5.40" rx="0.60" fill="#eb6834" stroke="#fcfcfb" stroke-width="0.5"/>
+<rect x="70.0" y="360.8" width="5.40" height="5.40" rx="0.60" fill="#eb6834" stroke="#fcfcfb" stroke-width="0.5"/>
+<rect x="89.8" y="360.5" width="5.40" height="5.40" rx="0.60" fill="#eb6834" stroke="#fcfcfb" stroke-width="0.5"/>
+<rect x="97.4" y="360.6" width="5.40" height="5.40" rx="0.60" fill="#eb6834" stroke="#fcfcfb" stroke-width="0.5"/>
+<rect x="116.2" y="360.4" width="5.40" height="5.40" rx="0.60" fill="#eb6834" stroke="#fcfcfb" stroke-width="0.5"/>
+<rect x="123.6" y="360.5" width="5.40" height="5.40" rx="0.60" fill="#eb6834" stroke="#fcfcfb" stroke-width="0.5"/>
+<rect x="135.1" y="360.5" width="5.40" height="5.40" rx="0.60" fill="#eb6834" stroke="#fcfcfb" stroke-width="0.5"/>
+<rect x="138.4" y="360.5" width="5.40" height="5.40" rx="0.60" fill="#eb6834" stroke="#fcfcfb" stroke-width="0.5"/>
+<rect x="180.6" y="360.3" width="5.40" height="5.40" rx="0.60" fill="#eb6834" stroke="#fcfcfb" stroke-width="0.5"/>
+<rect x="215.0" y="359.9" width="5.40" height="5.40" rx="0.60" fill="#eb6834" stroke="#fcfcfb" stroke-width="0.5"/>
+<rect x="219.1" y="359.6" width="5.40" height="5.40" rx="0.60" fill="#eb6834" stroke="#fcfcfb" stroke-width="0.5"/>
+<rect x="223.9" y="359.9" width="5.40" height="5.40" rx="0.60" fill="#eb6834" stroke="#fcfcfb" stroke-width="0.5"/>
+<rect x="514.5" y="358.8" width="5.40" height="5.40" rx="0.60" fill="#eb6834" stroke="#fcfcfb" stroke-width="0.5"/>
+<polygon points="70.2,359.1 73.5,365.1 66.9,365.1" fill="#1baf7a" stroke="#fcfcfb" stroke-width="0.5"/>
+<polygon points="70.8,359.8 74.1,365.8 67.5,365.8" fill="#1baf7a" stroke="#fcfcfb" stroke-width="0.5"/>
+<polygon points="71.1,358.8 74.4,364.8 67.8,364.8" fill="#1baf7a" stroke="#fcfcfb" stroke-width="0.5"/>
+<polygon points="72.7,359.8 76.0,365.8 69.4,365.8" fill="#1baf7a" stroke="#fcfcfb" stroke-width="0.5"/>
+<polygon points="92.5,357.1 95.8,363.1 89.2,363.1" fill="#1baf7a" stroke="#fcfcfb" stroke-width="0.5"/>
+<polygon points="100.1,359.5 103.4,365.5 96.8,365.5" fill="#1baf7a" stroke="#fcfcfb" stroke-width="0.5"/>
+<polygon points="118.9,359.4 122.2,365.4 115.6,365.4" fill="#1baf7a" stroke="#fcfcfb" stroke-width="0.5"/>
+<polygon points="126.3,359.5 129.6,365.5 123.0,365.5" fill="#1baf7a" stroke="#fcfcfb" stroke-width="0.5"/>
+<polygon points="137.8,159.8 141.1,165.8 134.5,165.8" fill="#1baf7a" stroke="#fcfcfb" stroke-width="0.5"/>
+<polygon points="141.1,359.5 144.4,365.5 137.8,365.5" fill="#1baf7a" stroke="#fcfcfb" stroke-width="0.5"/>
+<polygon points="183.3,359.2 186.6,365.2 180.0,365.2" fill="#1baf7a" stroke="#fcfcfb" stroke-width="0.5"/>
+<polygon points="217.7,355.1 221.0,361.1 214.4,361.1" fill="#1baf7a" stroke="#fcfcfb" stroke-width="0.5"/>
+<polygon points="221.8,358.6 225.1,364.6 218.5,364.6" fill="#1baf7a" stroke="#fcfcfb" stroke-width="0.5"/>
+<polygon points="226.6,358.7 229.9,364.7 223.3,364.7" fill="#1baf7a" stroke="#fcfcfb" stroke-width="0.5"/>
+<polygon points="517.2,357.5 520.5,363.5 513.9,363.5" fill="#1baf7a" stroke="#fcfcfb" stroke-width="0.5"/>
+<polygon points="70.8,358.6 74.4,362.2 70.8,365.8 67.2,362.2" fill="#52514e" stroke="#fcfcfb" stroke-width="0.5"/>
+<polygon points="92.5,353.8 96.1,357.4 92.5,361.0 88.9,357.4" fill="#52514e" stroke="#fcfcfb" stroke-width="0.5"/>
+<polygon points="100.1,353.2 103.7,356.8 100.1,360.4 96.5,356.8" fill="#52514e" stroke="#fcfcfb" stroke-width="0.5"/>
+<polygon points="118.9,349.7 122.5,353.3 118.9,356.9 115.3,353.3" fill="#52514e" stroke="#fcfcfb" stroke-width="0.5"/>
+<polygon points="126.3,352.0 129.9,355.6 126.3,359.2 122.7,355.6" fill="#52514e" stroke="#fcfcfb" stroke-width="0.5"/>
+<polygon points="137.8,154.5 141.4,158.1 137.8,161.7 134.2,158.1" fill="#52514e" stroke="#fcfcfb" stroke-width="0.5"/>
+<polygon points="141.1,341.6 144.7,345.2 141.1,348.8 137.5,345.2" fill="#52514e" stroke="#fcfcfb" stroke-width="0.5"/>
+<polygon points="183.3,137.1 186.9,140.7 183.3,144.3 179.7,140.7" fill="#52514e" stroke="#fcfcfb" stroke-width="0.5"/>
+<polygon points="221.8,346.3 225.4,349.9 221.8,353.5 218.2,349.9" fill="#52514e" stroke="#fcfcfb" stroke-width="0.5"/>
+<polygon points="226.6,335.1 230.2,338.7 226.6,342.3 223.0,338.7" fill="#52514e" stroke="#fcfcfb" stroke-width="0.5"/>
+<polygon points="517.2,270.8 520.8,274.4 517.2,278.0 513.6,274.4" fill="#52514e" stroke="#fcfcfb" stroke-width="0.5"/>
+<circle cx="84.0" cy="56.0" r="5.00" fill="#2a78d6" stroke="#fcfcfb" stroke-width="2"/>
 <text x="94" y="60" font-size="11" fill="#0b0b0b">Cold</text>
-<rect x="139.1" y="51.5" width="9" height="9" rx="1" fill="#eb6834" stroke="#fcfcfb" stroke-width="2"/>
+<rect x="139.1" y="51.5" width="9.00" height="9.00" rx="1.00" fill="#eb6834" stroke="#fcfcfb" stroke-width="2"/>
 <text x="153.6" y="60" font-size="11" fill="#0b0b0b">Warm</text>
 <polygon points="203.2,50.0 208.7,60.0 197.7,60.0" fill="#1baf7a" stroke="#fcfcfb" stroke-width="2"/>
 <text x="213.2" y="60" font-size="11" fill="#0b0b0b">Root changed</text>

diff --git a/perf-measurements/scripts/report.py b/perf-measurements/scripts/report.py
@@ -94,7 +94,8 @@ for row in summary:
 # Charts: one SVG panel per command, a polyline per scenario, in each axis-scale variant.
 W, H = 560, 420
 ML, MR, MT, MB = 70, 20, 44, 56
-VARIANTS = [("", True, True), ("-linear-time", True, False), ("-linear", False, False)]
+# (file suffix, log x, log y, marker scale, marker ring width, line width) in SVG units; PNGs render at 2x.
+VARIANTS = [("", True, True, 1.0, 2, 2), ("-linear-time", True, False, 1.0, 2, 2), ("-linear", False, False, 0.6, 0.5, 1)]
 
 
 def nice_step(span, target=5):
@@ -126,16 +127,16 @@ def scaler(lo, hi, log, a, b):
     return lambda v: a + (v - lo) / (hi - lo) * (b - a)
 
 
-def marker(s, x, y):
+def marker(s, x, y, k=1.0, ring_width=2):
     c = COLORS[s]
-    ring = 'stroke="#fcfcfb" stroke-width="2"'
+    ring = f'stroke="#fcfcfb" stroke-width="{ring_width}"'
     if s == "cold":
-        return f'<circle cx="{x:.1f}" cy="{y:.1f}" r="5" fill="{c}" {ring}/>'
+        return f'<circle cx="{x:.1f}" cy="{y:.1f}" r="{5 * k:.2f}" fill="{c}" {ring}/>'
     if s == "warm":
-        return f'<rect x="{x - 4.5:.1f}" y="{y - 4.5:.1f}" width="9" height="9" rx="1" fill="{c}" {ring}/>'
+        return f'<rect x="{x - 4.5 * k:.1f}" y="{y - 4.5 * k:.1f}" width="{9 * k:.2f}" height="{9 * k:.2f}" rx="{k:.2f}" fill="{c}" {ring}/>'
     if s == "root_changed":
-        return f'<polygon points="{x:.1f},{y - 6:.1f} {x + 5.5:.1f},{y + 4:.1f} {x - 5.5:.1f},{y + 4:.1f}" fill="{c}" {ring}/>'
-    return f'<polygon points="{x:.1f},{y - 6:.1f} {x + 6:.1f},{y:.1f} {x:.1f},{y + 6:.1f} {x - 6:.1f},{y:.1f}" fill="{c}" {ring}/>'
+        return f'<polygon points="{x:.1f},{y - 6 * k:.1f} {x + 5.5 * k:.1f},{y + 4 * k:.1f} {x - 5.5 * k:.1f},{y + 4 * k:.1f}" fill="{c}" {ring}/>'
+    return f'<polygon points="{x:.1f},{y - 6 * k:.1f} {x + 6 * k:.1f},{y:.1f} {x:.1f},{y + 6 * k:.1f} {x - 6 * k:.1f},{y:.1f}" fill="{c}" {ring}/>'
 
 
 def time_label(v):
@@ -153,7 +154,7 @@ def loc_label(v):
 xs_all = [r["total"] for r in summary]
 ys_all = [r[f"{s}_median"] for r in summary for s in SCENARIOS if r.get(f"{s}_median")]
 
-for suffix, xlog, ylog in VARIANTS:
+for suffix, xlog, ylog, mk, ring_w, line_w in VARIANTS:
     panels = []
     for cmd in CMDS:
         rows = sorted((r for r in summary if r["command"] == cmd), key=lambda r: r["total"])
@@ -183,11 +184,11 @@ for suffix, xlog, ylog in VARIANTS:
             pts = [(sx(r["total"]), sy(r[f"{s}_median"])) for r in rows if r.get(f"{s}_median")]
             if len(pts) > 1:
                 d = " ".join(f"{x:.1f},{y:.1f}" for x, y in pts)
-                parts.append(f'<polyline points="{d}" fill="none" stroke="{COLORS[s]}" stroke-width="2" stroke-linejoin="round" opacity="0.75"/>')
+                parts.append(f'<polyline points="{d}" fill="none" stroke="{COLORS[s]}" stroke-width="{line_w}" stroke-linejoin="round" opacity="0.75"/>')
         for s in SCENARIOS:
             for r in rows:
                 if r.get(f"{s}_median"):
-                    parts.append(marker(s, sx(r["total"]), sy(r[f"{s}_median"])))
+                    parts.append(marker(s, sx(r["total"]), sy(r[f"{s}_median"]), mk, ring_w))
         lx = ML + 8
         for s in SCENARIOS:
             parts.append(marker(s, lx + 6, MT + 12))
